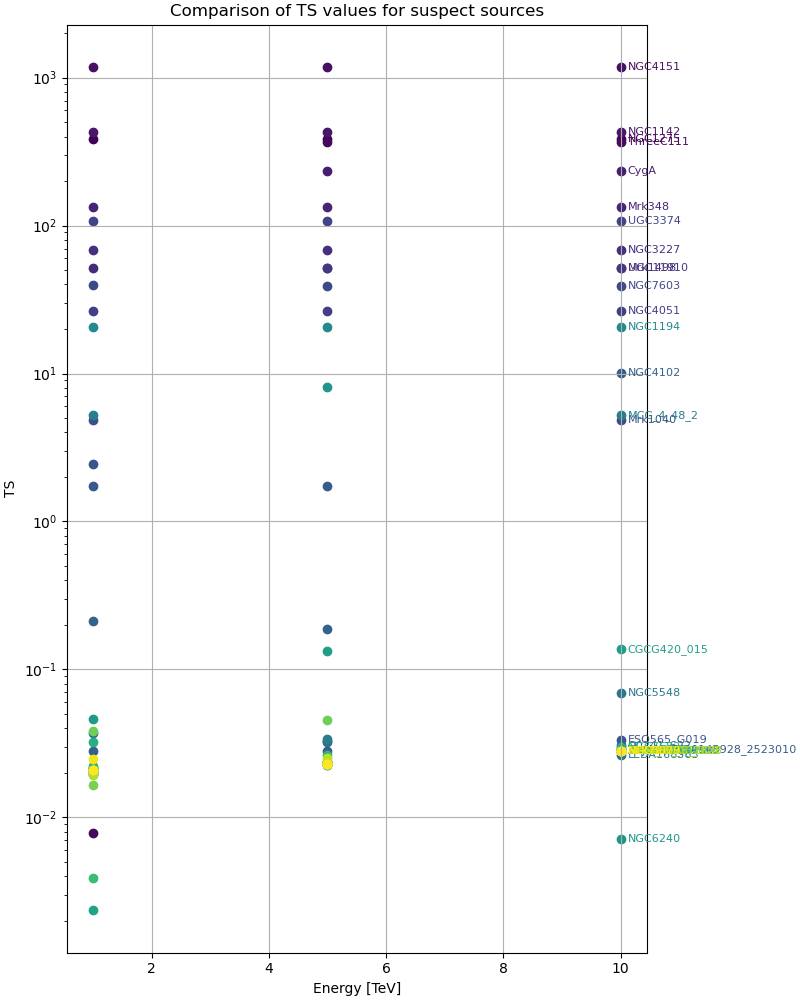
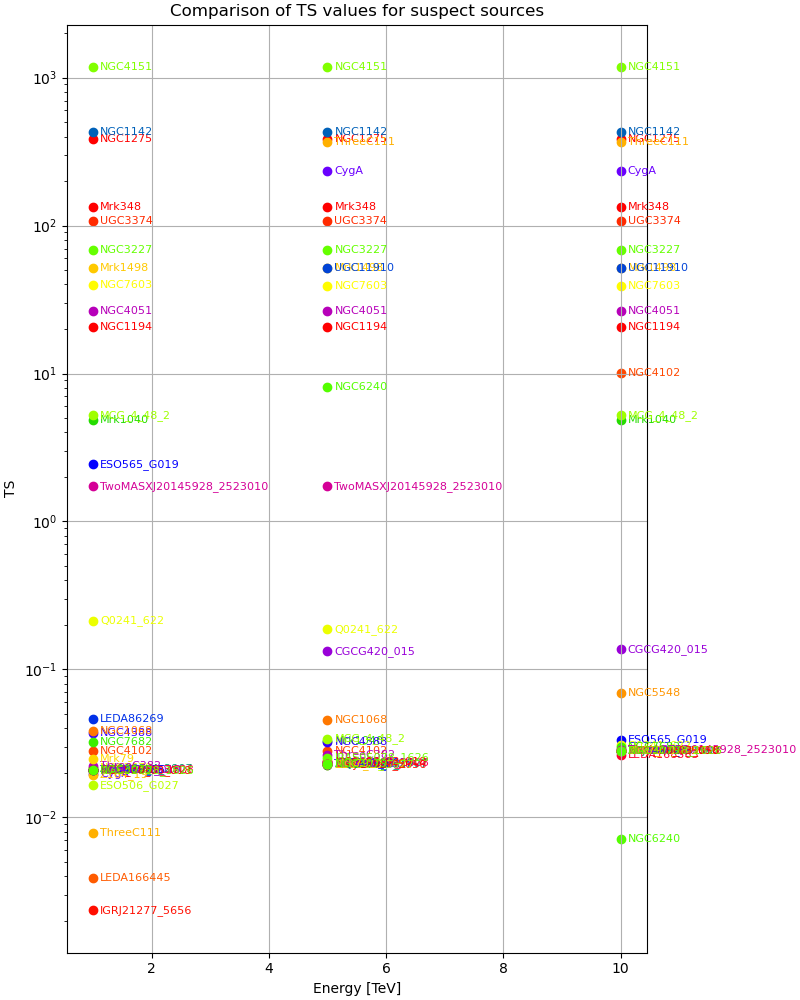
h

diff --git a/ptSource-ind3-14-195keV/sourcebysource/plot_ts_pivot.py b/ptSource-ind3-14-195keV/sourcebysource/plot_ts_pivot.py
@@ -15,7 +15,7 @@ df = {}
 begin_TS = np.array([-0.020819783210754395,-0.022848963737487793,-0.02813541889190674])
 
 pivot = np.array([1.0,5.0,10.0])  # TeV
-c = cm.viridis(np.linspace(0, 1, len(sourceName)))
+c = cm.prism(np.linspace(0, 1, len(sourceName)))
 
 
 for i, name in enumerate(sourceName):
@@ -30,10 +30,11 @@ plt.figure(layout='constrained',figsize=(8,10))
 
 for i, name in enumerate(sourceName):
     plt.scatter(pivot,df[name]['ts'],color=c[i],label=f"{name}")
-    plt.annotate(name, 
-                 xy=(pivot[-1], df[name]['ts'][-1]),  # anchor at last point
-                 xytext=(5, 0), textcoords='offset points',
-                 fontsize=8, color=c[i], va='center')
+    for x, y in zip(pivot, df[name]['ts']):
+        plt.annotate(name,
+                     xy=(x, y),
+                     xytext=(5, 0), textcoords='offset points',
+                     fontsize=8, color=c[i], va='center')
 
 plt.xlabel("Energy [TeV]")
 plt.ylabel("TS")
